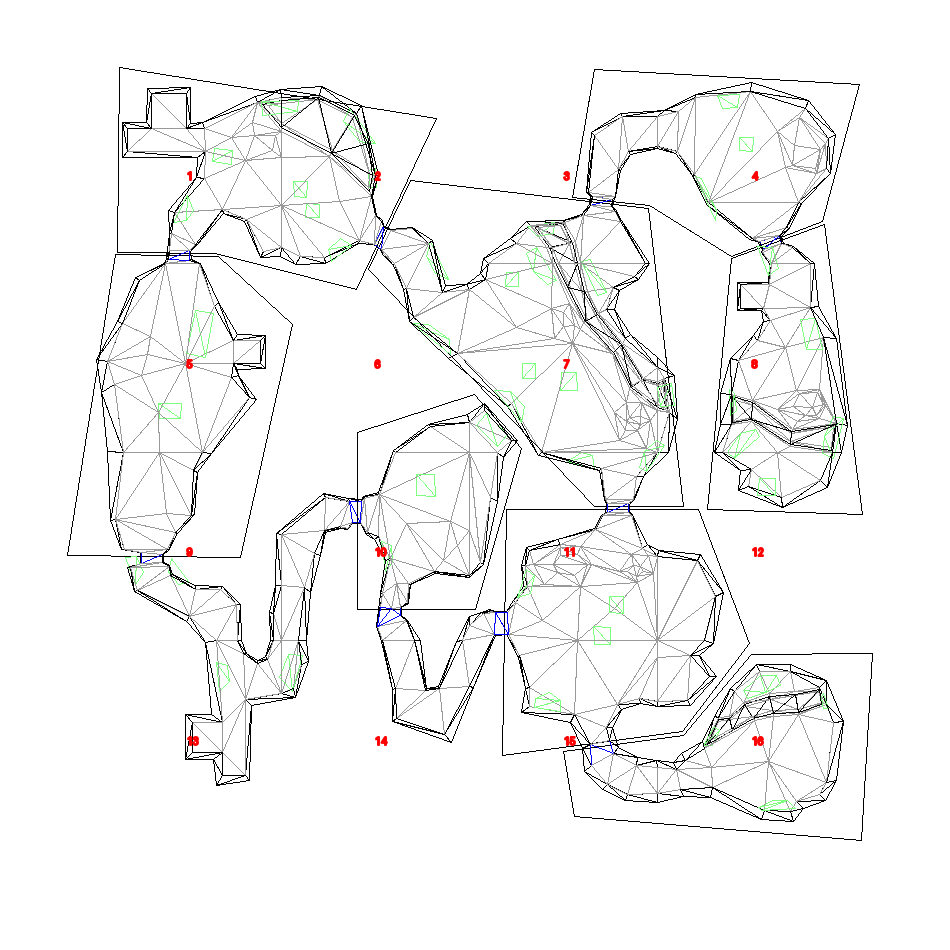
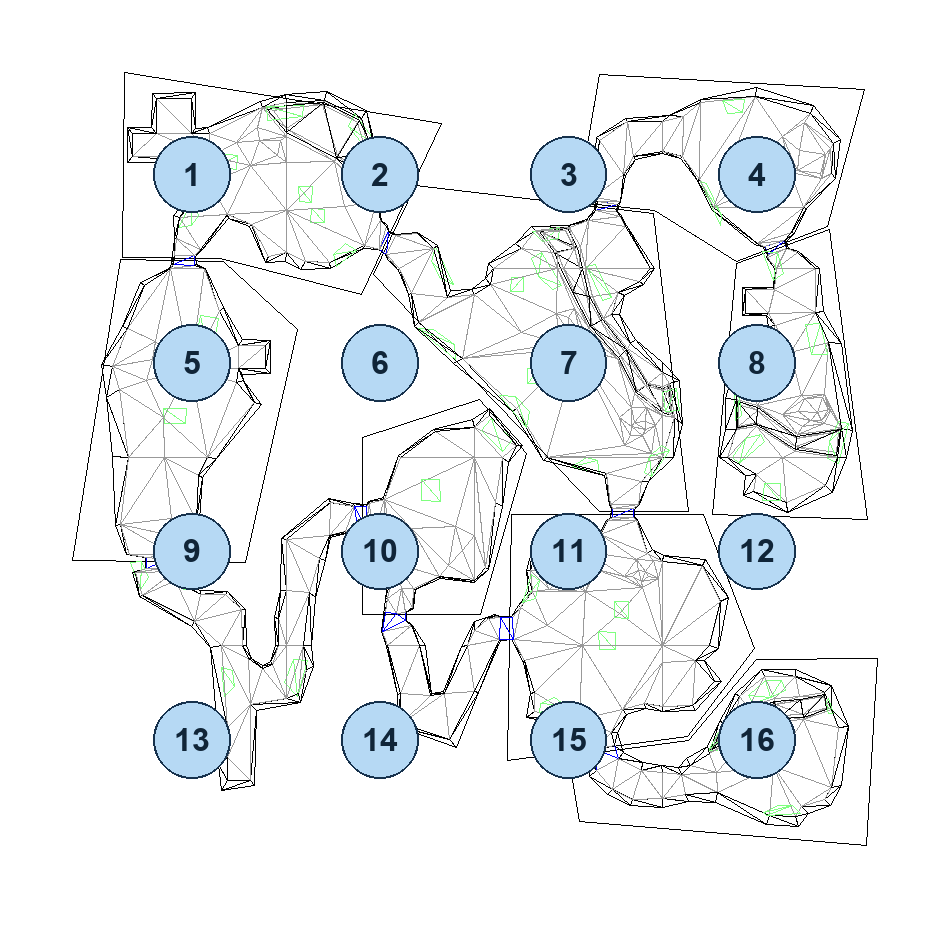
Enlarge Forest section numbers and add clear circular markers

Changed region(s): [[0.0916, 0.0916, 0.9158, 0.8853], [0.8853, 0.5189, 0.9158, 0.5495]]

diff --git a/analysis/tools/extract_forest_geometry.py b/analysis/tools/extract_forest_geometry.py
@@ -42,7 +42,23 @@ def main():
                 svg.append(f'<polygon points="{xy}" fill="none" stroke="{color}" stroke-width="0.65"/>')
         for r in rooms:
             if r['id']>=1000:continue
-            x,y,z=r['position'];svg+= [f'<circle cx="{x}" cy="{z}" r="60" fill="#87bce6" fill-opacity="0.65" stroke="black" stroke-width="0.7"/>',f'<text x="{x}" y="{z}" text-anchor="middle" dominant-baseline="central" font-family="sans-serif" font-size="40">{r["id"]}</text>']
+            x,y,z=r['position'];svg+= [f'<circle cx="{x}" cy="{z}" r="65" fill="#b6d9f4" fill-opacity="0.94" stroke="#17324d" stroke-width="2.5"/>',f'<text x="{x}" y="{z}" text-anchor="middle" dominant-baseline="central" font-family="Arial, sans-serif" font-size="54" font-weight="bold" fill="#102538">{r["id"]}</text>']
         svg.append('</svg>');(OUT/(stem+'.svg')).write_text('\n'.join(svg))
+        # Keep raster previews consistent with the downloadable vector image.
+        from PIL import Image,ImageDraw,ImageFont
+        scale=900/max(xmax-xmin,zmax-zmin)
+        im=Image.new('RGB',(950,950),'white');draw=ImageDraw.Draw(im)
+        def pixel(v):return ((v[0]-xmin)*scale+25,(v[2]-zmin)*scale+25)
+        for block in blocks:
+            for tri in block['triangles']:
+                xy=[pixel(block['vertices'][i]) for i in tri['indices']];f=tri['flags']
+                draw.line(xy+[xy[0]],fill='blue' if f&64 else '#7fff7f' if f&16 else '#999999' if f&1 else 'black')
+        font=ImageFont.truetype('C:/Windows/Fonts/arialbd.ttf',round(54*scale))
+        for r in rooms:
+            if r['id']>=1000:continue
+            x,z=pixel(r['position']);radius=65*scale
+            draw.ellipse((x-radius,z-radius,x+radius,z+radius),fill='#b6d9f4',outline='#17324d',width=2)
+            draw.text((x,z),str(r['id']),font=font,fill='#102538',anchor='mm')
+        im.save(OUT/(stem+'.png'))
         print(stem,'rooms',[r['id'] for r in rooms],'vertices',sum(len(b['vertices']) for b in blocks),'triangles',sum(len(b['triangles']) for b in blocks))
 if __name__=='__main__':main()
